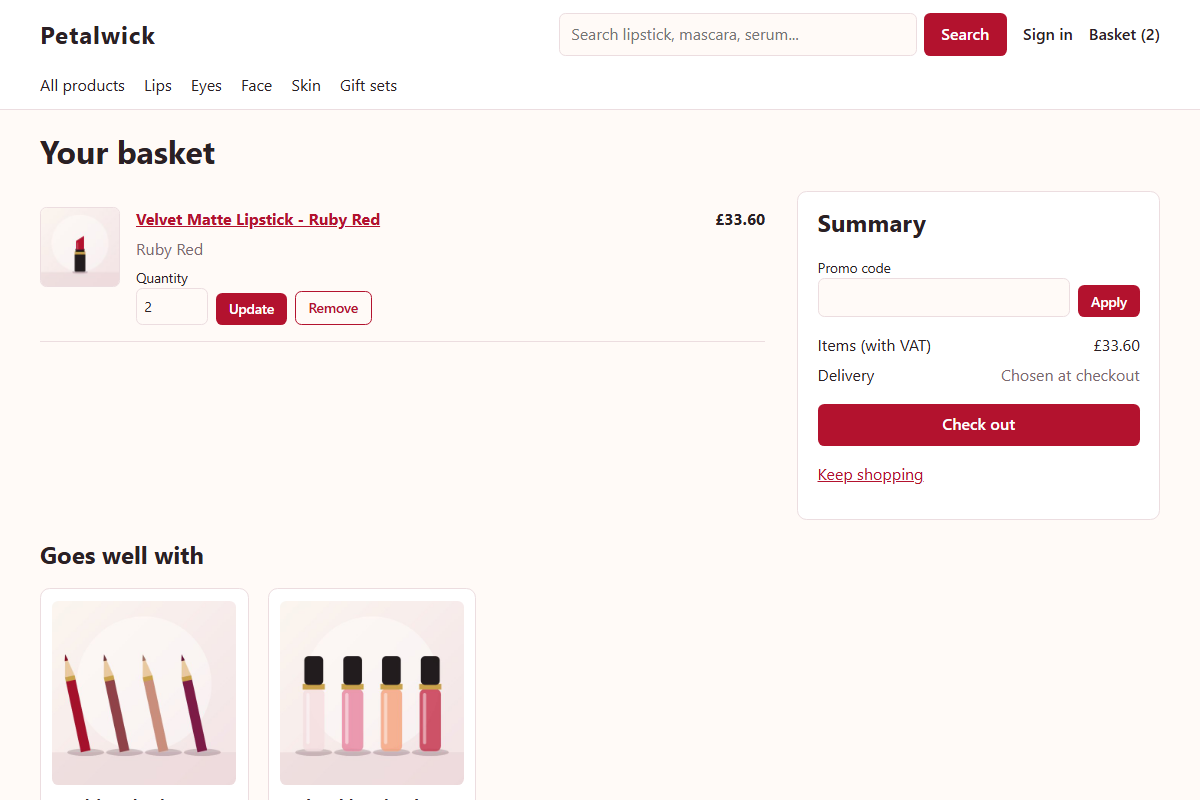
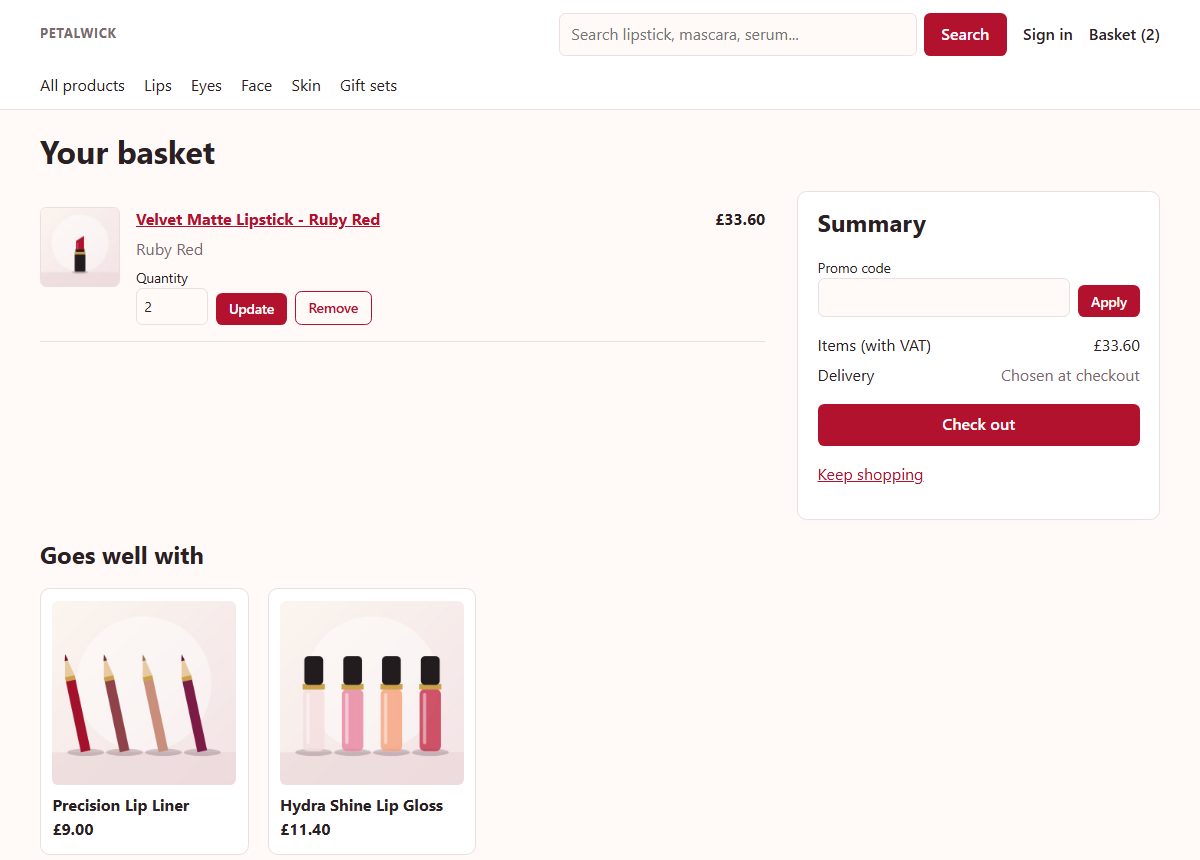
Promo site: the sample shop screenshots are the same height
The basket screenshot was retaken at 1200x860 to match the other two, and the images share one aspect ratio, cropped from the top, so the row stays level whatever the source size.

Claude-Session: https://claude.ai/code/session_019RyDja4ynNoVy9UCsPJoFT

diff --git a/site/PiranhaCommerce.Site/wwwroot/site.css b/site/PiranhaCommerce.Site/wwwroot/site.css
@@ -117,6 +117,6 @@ section.container h2 { font-size: 1.7rem; margin: 0 0 1.25rem; }
 .lead-small { color: var(--muted); max-width: 46rem; }
 .shots { display: grid; gap: 1.25rem; grid-template-columns: repeat(3, 1fr); margin: 1.5rem 0; }
 .shots figure { margin: 0; }
-.shots img { width: 100%; height: auto; border: 1px solid var(--line); border-radius: 10px; display: block; }
+.shots img { width: 100%; height: auto; aspect-ratio: 1200 / 860; object-fit: cover; object-position: top; border: 1px solid var(--line); border-radius: 10px; display: block; }
 .shots figcaption { color: var(--muted); font-size: .9rem; margin-top: .5rem; }
 @media (max-width: 800px) { .shots { grid-template-columns: 1fr; } }
